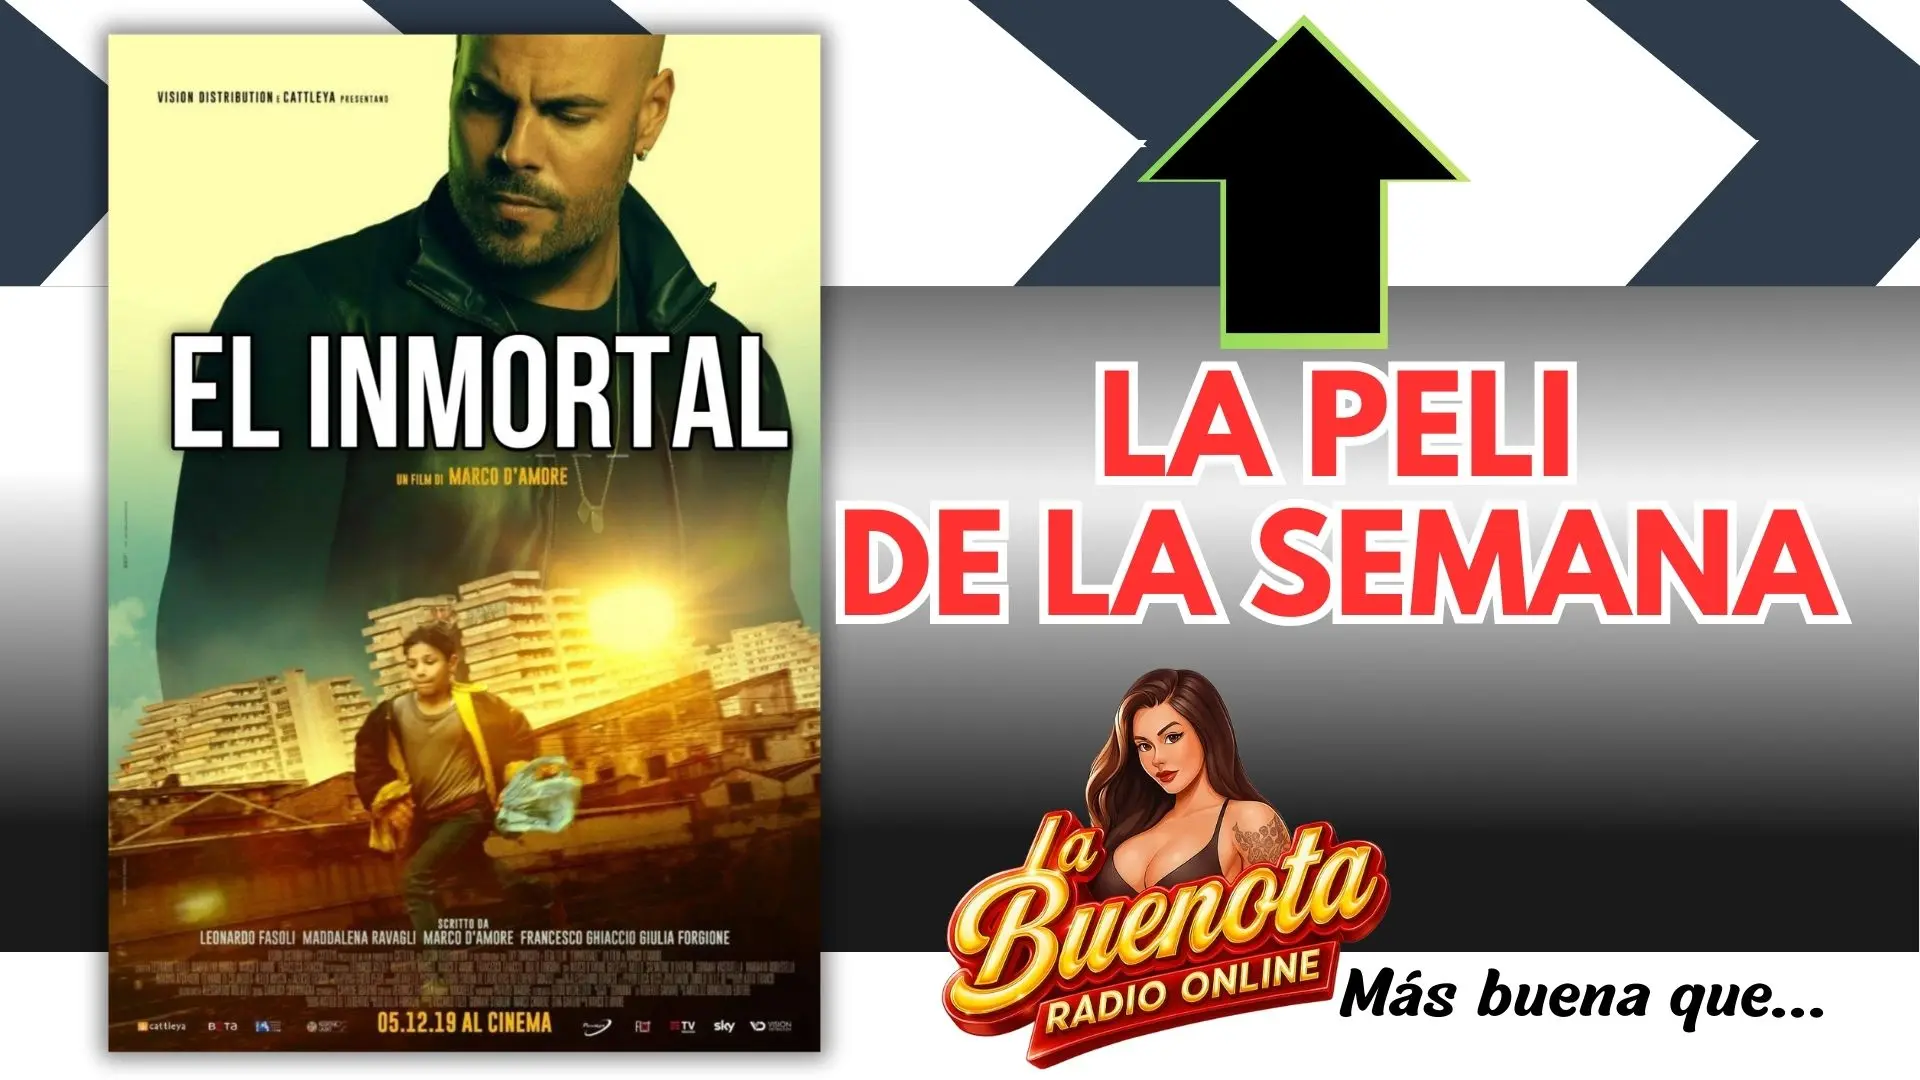
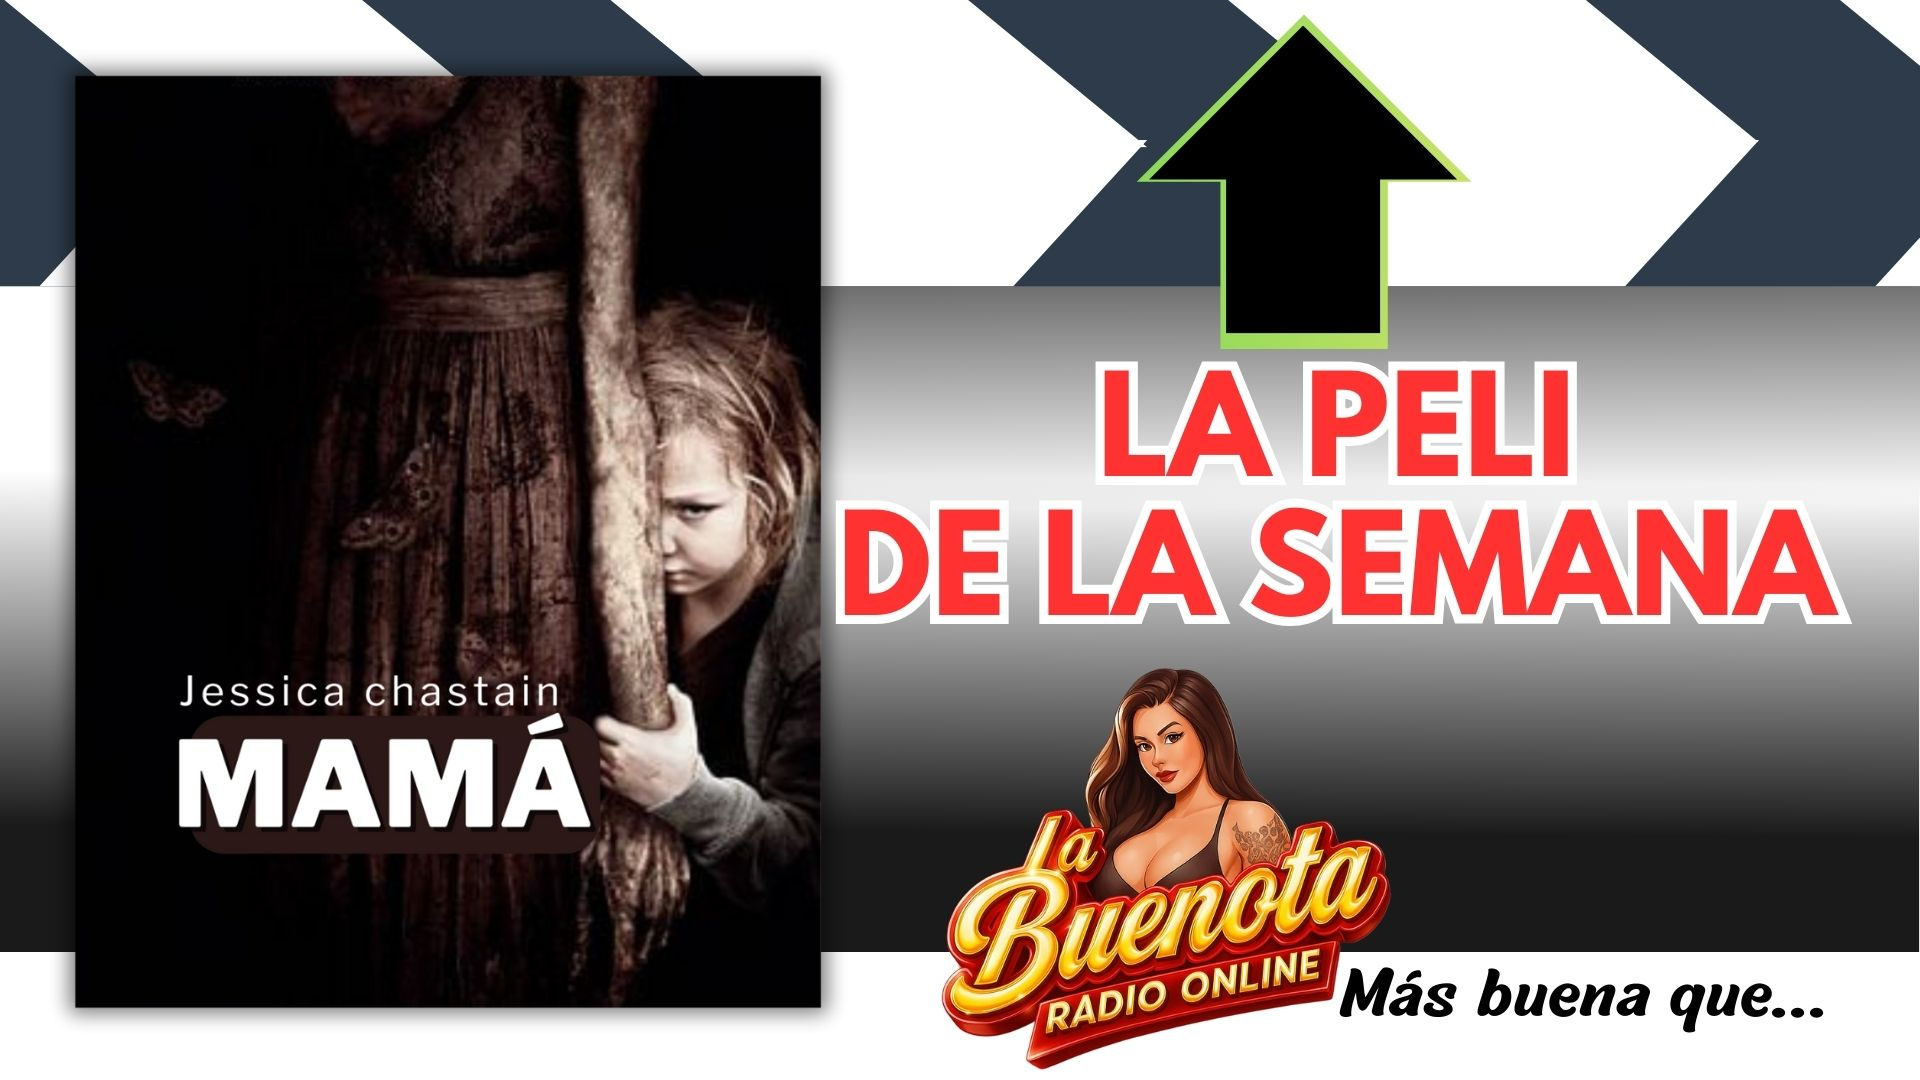
Add files via upload

diff --git a/peli.html b/peli.html
@@ -39,7 +39,7 @@
 
 <!-- Solo se agregó controlsList="nodownload" -->
 <video id="movie" controls playsinline webkit-playsinline controlsList="nodownload">
-  <source src="https://ia801801.us.archive.org/27/items/pets-united-2020-latino-1080-streaming-latino/EL%20INMORTAL.mp4">
+  <source src="https://dn720500.ca.archive.org/0/items/pets-united-2020-latino-1080-streaming-latino/MAMA.mp4">
   Tu navegador no soporta el video.
 </video>
 
